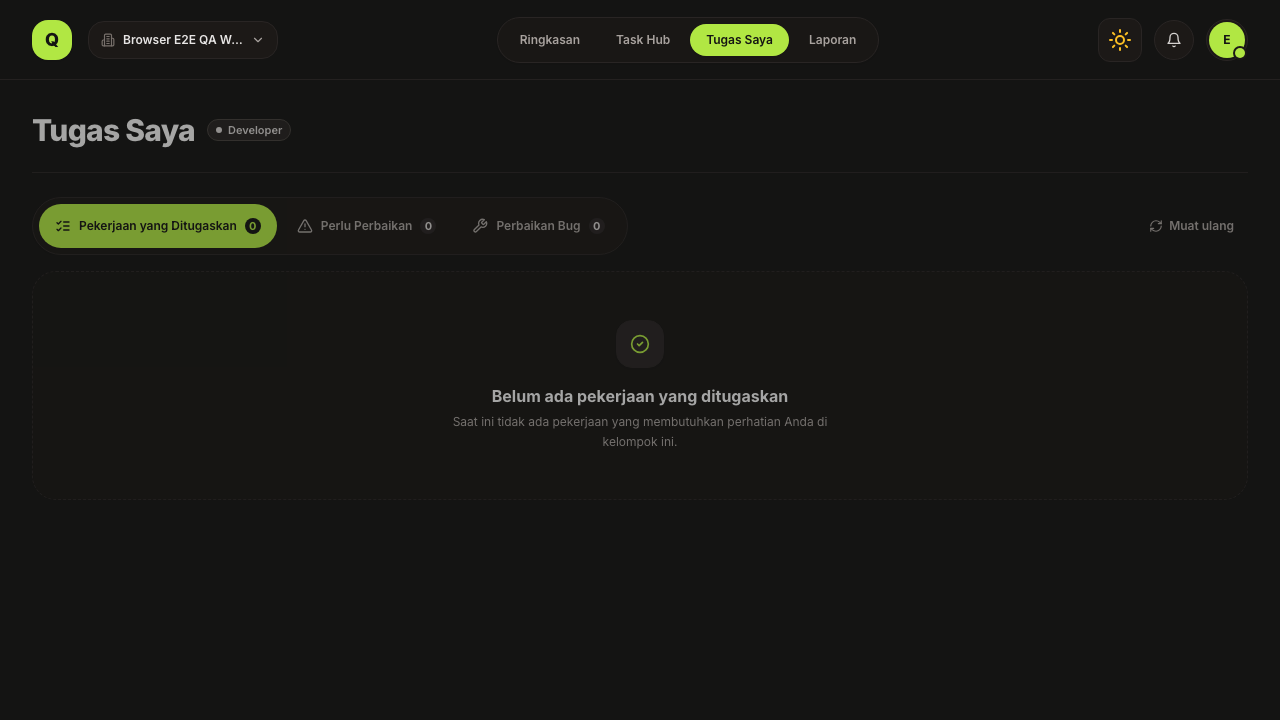
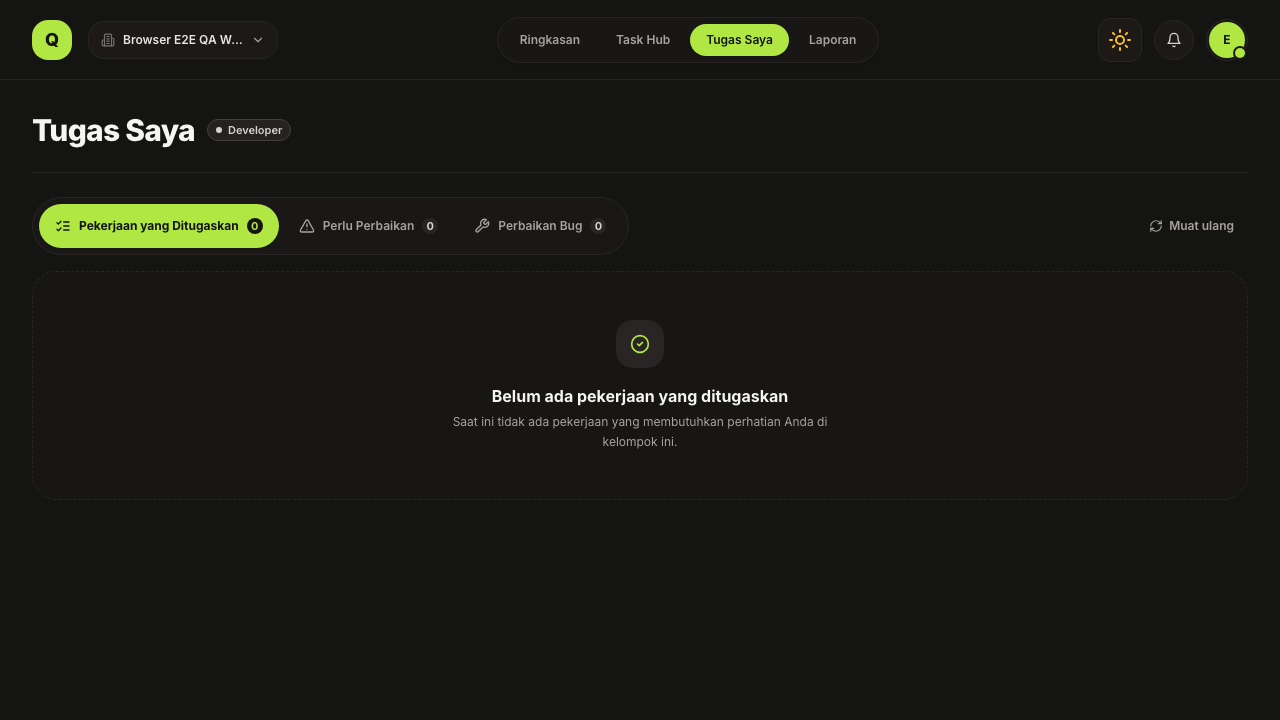
fix(tabs): stabilize pills active state, contrast, and role screenshot timing (#21)

diff --git a/apps/web/src/components/ui/organisms/myTasks/RoleAwareWorkQueuePanel.tsx b/apps/web/src/components/ui/organisms/myTasks/RoleAwareWorkQueuePanel.tsx
@@ -1,4 +1,4 @@
-import React, { useEffect, useMemo, useState } from 'react';
+import React, { useMemo, useState } from 'react';
 import {
   AlertTriangle,
   ArrowRight,
@@ -176,16 +176,19 @@ export const RoleAwareWorkQueuePanel: React.FC<RoleAwareWorkQueuePanelProps> = (
   onRefresh,
   onOpenItem,
 }) => {
-  const [activeBucketCode, setActiveBucketCode] = useState<string | null>(null);
+  const [selectedBucketCode, setSelectedBucketCode] = useState<string | null>(null);
   const [searchQuery, setSearchQuery] = useState('');
   const [priorityFilter, setPriorityFilter] = useState('all');
   const [openingItemId, setOpeningItemId] = useState<string | null>(null);
   const debouncedSearchQuery = useDebounce(searchQuery, 250).trim().toLowerCase();
   const buckets = useMemo(() => state.queue?.buckets || [], [state.queue?.buckets]);
 
-  useEffect(() => {
-    setActiveBucketCode((current) => firstActiveBucket(buckets, current));
-  }, [state.queue?.workspaceId, state.queue?.queueRole, buckets]);
+  const activeBucketCode = useMemo(() => {
+    if (selectedBucketCode && buckets.some((bucket) => bucket.code === selectedBucketCode)) {
+      return selectedBucketCode;
+    }
+    return firstActiveBucket(buckets, null);
+  }, [buckets, selectedBucketCode]);
 
   const activeBucket = buckets.find((bucket) => bucket.code === activeBucketCode) || buckets[0];
   const visibleItems = useMemo(() => {
@@ -277,7 +280,7 @@ export const RoleAwareWorkQueuePanel: React.FC<RoleAwareWorkQueuePanelProps> = (
           <Tabs
             variant="pills"
             activeTabId={activeBucket.code}
-            onChange={setActiveBucketCode}
+            onChange={setSelectedBucketCode}
             ariaLabel="Filter antrean kerja"
             tabs={buckets.map((bucket) => ({
               id: bucket.code,

diff --git a/apps/web/src/components/ui/molecules/Tabs.tsx b/apps/web/src/components/ui/molecules/Tabs.tsx
@@ -158,14 +158,26 @@ export const Tabs: React.FC<TabsProps> = ({
               tabIndex={isActive ? 0 : -1}
               onClick={() => onChange(tab.id)}
               onKeyDown={(event) => handleKeyDown(event, index)}
-              className={`flex min-h-[44px] shrink-0 items-center gap-2 px-4 py-2 rounded-full text-xs font-semibold transition-all ${
+              className={`flex min-h-[44px] shrink-0 items-center gap-2 px-4 py-2 rounded-full text-xs font-semibold transition-colors duration-150 focus:outline-hidden focus-visible:ring-2 focus-visible:ring-stone-400 dark:focus-visible:ring-stone-600 ${
                 isActive
                   ? 'bg-[#B1E743] text-[#141413] font-bold shadow-xs dark:bg-[#B1E743] dark:text-[#141413]'
                   : 'text-stone-600 hover:text-stone-900 hover:bg-stone-100 dark:text-stone-400 dark:hover:text-stone-100 dark:hover:bg-stone-800'
               }`}
             >
-              {tab.icon}
-              <span>{tab.label}</span>
+              {tab.icon && (
+                <span
+                  className={
+                    isActive
+                      ? 'text-[#141413] dark:text-[#141413]'
+                      : 'text-stone-500 dark:text-stone-400'
+                  }
+                >
+                  {tab.icon}
+                </span>
+              )}
+              <span className={isActive ? 'text-[#141413] dark:text-[#141413] font-bold' : ''}>
+                {tab.label}
+              </span>
               {tab.badge}
               {tab.count !== undefined && (
                 <span

diff --git a/apps/web/e2e/specs/qa-role-isolation.spec.ts b/apps/web/e2e/specs/qa-role-isolation.spec.ts
@@ -271,6 +271,8 @@ test('QA assignee sees an authenticated persisted workspace', async ({ page }, t
 
   await expect(page.getByText('QA', { exact: true })).toBeVisible();
   await expect(page.getByText('Browser E2E QA Assignee Task')).toBeVisible();
+  await expect(page.getByRole('tab', { selected: true })).toBeVisible();
+  await page.waitForTimeout(200);
   await page.screenshot({ path: testInfo.outputPath('my-tasks-qa-after.png'), fullPage: true });
 });
 
@@ -391,6 +393,8 @@ test('Developer and PO each receive their persisted role view', async ({ browser
   const developer = await browser.newPage();
   await login(developer, users.dev.email);
   await expect(developer.getByText('Developer', { exact: true })).toBeVisible();
+  await expect(developer.getByRole('tab', { selected: true })).toBeVisible();
+  await developer.waitForTimeout(200);
   await developer.screenshot({
     path: testInfo.outputPath('my-tasks-dev-after.png'),
     fullPage: true,
@@ -399,6 +403,9 @@ test('Developer and PO each receive their persisted role view', async ({ browser
   const productOwner = await browser.newPage();
   await login(productOwner, users.po.email);
   await expect(productOwner.getByText('Product Owner', { exact: true })).toBeVisible();
+  await expect(productOwner.getByRole('tab', { selected: true })).toBeVisible();
+  await expect(productOwner.getByText('Browser E2E QA Feature')).toBeVisible();
+  await productOwner.waitForTimeout(200);
   await productOwner.screenshot({
     path: testInfo.outputPath('my-tasks-po-after.png'),
     fullPage: true,
